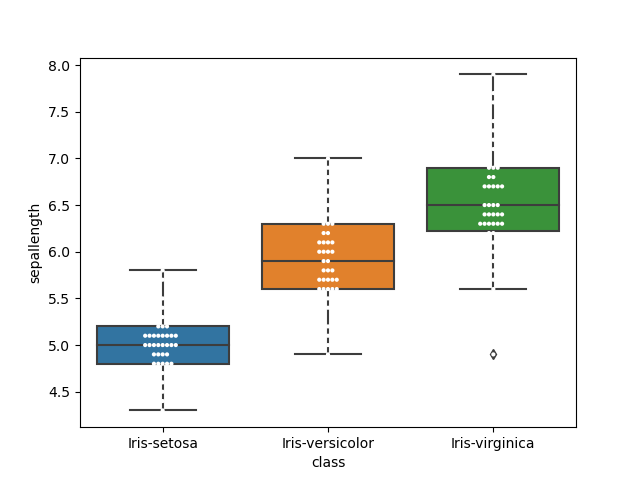
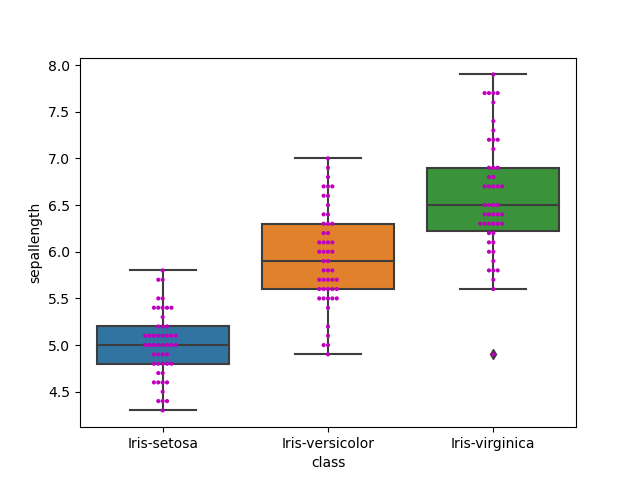
boxplot changes

diff --git a/analysis.py b/analysis.py
@@ -177,7 +177,7 @@ scatter_func ("Sepal Length", "Petal Width", "sepallength", "petalwidth", "Sleng
 '''
 
 #linear regression model plot function w/outputs 
-
+'''
 def lm_plot( x_value, y_value,output_file):
     sns.lmplot (x = x_value, y = y_value, data = iris,height = 8,  hue = "class", scatter_kws = {"s": 50})
     plt.savefig (output_file)
@@ -187,7 +187,7 @@ lm_plot("petallength", "petalwidth", "lm_3.png")
 lm_plot("sepalwidth", "petallength", "lm_4.png")
 lm_plot("sepalwidth", "petalwidth", "lm_5.png")
 lm_plot("sepallength", "petalwidth", "lm_6.png")
-
+'''
 
 # boxplot/swarmplot
 
@@ -195,7 +195,7 @@ lm_plot("sepallength", "petalwidth", "lm_6.png")
 def swarmbox_plt(n, variable):
     plt. subplot (2,2,n)
     sns.boxplot(x = "class", y = variable, data = iris)
-    sns.swarmplot( x = "class", y = variable, data = iris, size = 1, color = "w")
+    sns.swarmplot( x = "class", y = variable, data = iris, size = 1, color = "m")
 swarmbox_plt(1, "petalwidth")
 swarmbox_plt(2, "petallength")
 swarmbox_plt(3, "sepallength")
@@ -209,12 +209,12 @@ plt.savefig("box_swarm_plot.png")
 '''
 def swarmbox_plt(variable, output):
     sns.boxplot(x = "class", y = variable, data = iris)
-    sns.swarmplot( x = "class", y = variable, data = iris, size = 3, color = "w")
+    sns.swarmplot( x = "class", y = variable, data = iris, size = 3, color = "m")
     plt.savefig (output)
-#swarmbox_plt("petalwidth", "boxplot_petal_w.png")
-#swarmbox_plt("petallength", "boxplot_petal_l.png")
-#swarmbox_plt("sepallength", "boxplot_sepal_l.png")
-#swarmbox_plt("sepalwidth", "boxplot_sepal_w.png")
+swarmbox_plt("petalwidth", "boxplot_petal_w.png")
+swarmbox_plt("petallength", "boxplot_petal_l.png")
+swarmbox_plt("sepallength", "boxplot_sepal_l.png")
+swarmbox_plt("sepalwidth", "boxplot_sepal_w.png")
 '''
 
 # figure pair plot 
